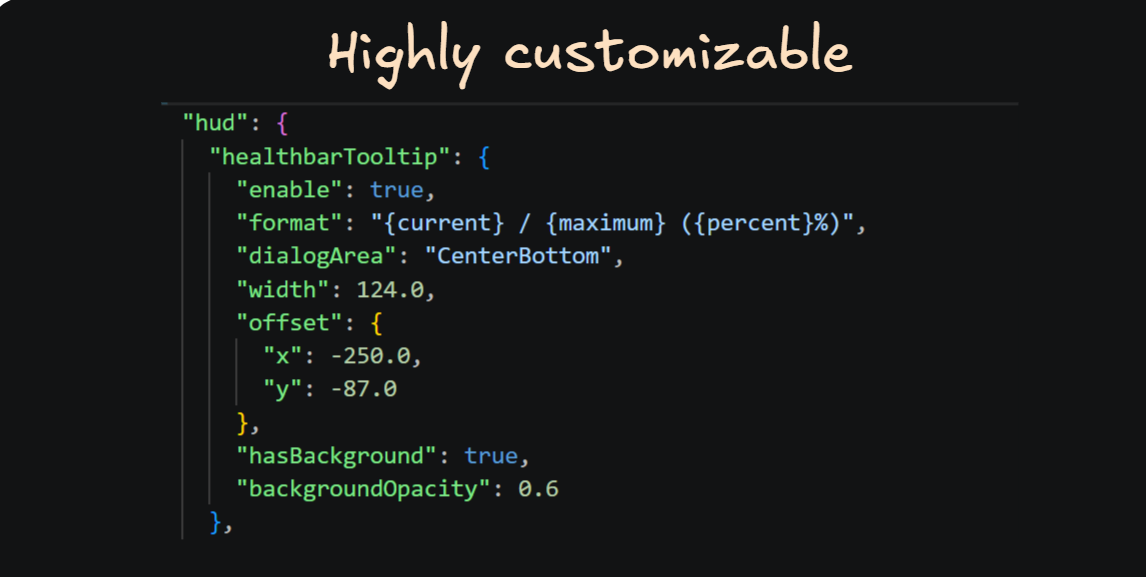
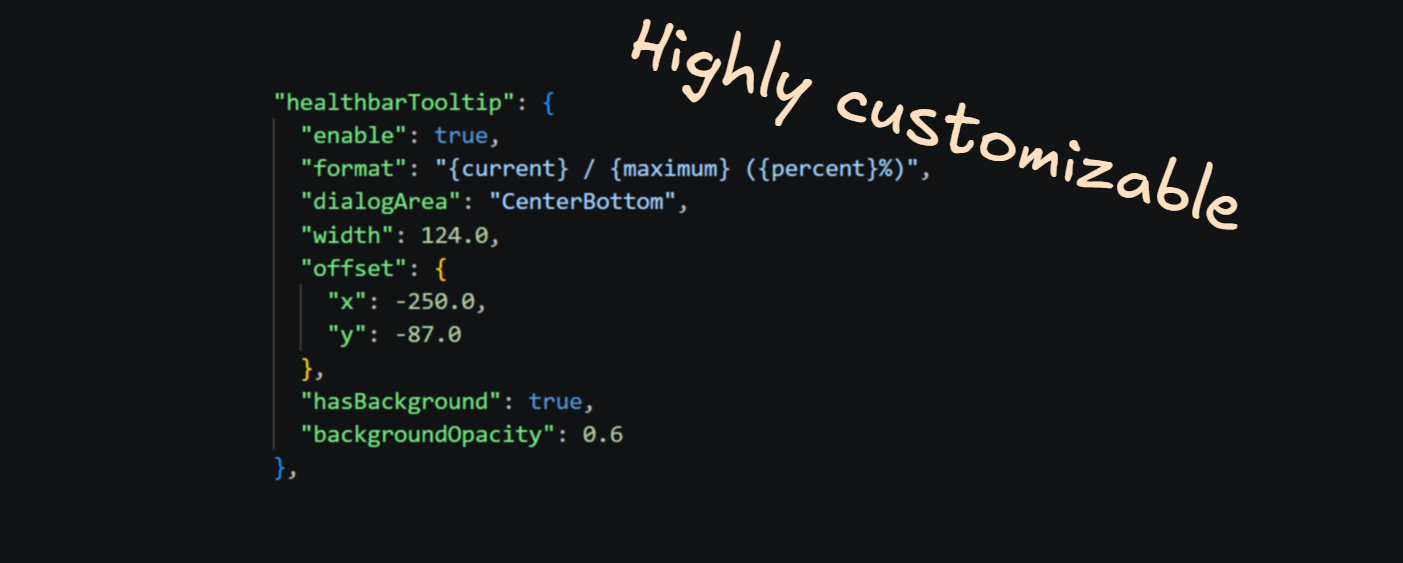
Format docs images

Changed region(s): [[0.1527, 0.0302, 0.8857, 0.8757], [0.1832, 0.9059, 0.2138, 0.9361]]

diff --git a/docs/src/carousel.css b/docs/src/carousel.css
@@ -1,0 +1,152 @@
+/* Carousel & Image Showcase – shared styles */
+
+.carousel {
+  position: relative;
+  width: 100%;
+  margin: 1.5em 0;
+}
+.carousel input[type="radio"] {
+  display: none;
+}
+.carousel-body {
+  display: grid;
+  grid-template-columns: 2.5em 1fr 2.5em;
+  border: 1px solid rgba(128, 128, 128, 0.3);
+  border-radius: 8px;
+  overflow: hidden;
+  background: rgba(128, 128, 128, 0.05);
+}
+.carousel-inner {
+  grid-column: 2;
+  grid-row: 1;
+  display: grid;
+}
+.carousel-slide {
+  grid-row: 1;
+  grid-column: 1;
+  display: flex;
+  justify-content: center;
+  align-items: center;
+  opacity: 0;
+  visibility: hidden;
+  padding: 1em;
+  min-height: 0;
+}
+.carousel-slide img {
+  max-width: 100%;
+  height: auto;
+  display: block;
+}
+
+/* Arrow areas */
+.carousel-arrow-area {
+  grid-row: 1;
+  display: flex;
+  align-items: center;
+  justify-content: center;
+  position: relative;
+  background: rgba(128, 128, 128, 0.08);
+  transition: background 0.2s;
+}
+.carousel-arrow-area:hover {
+  background: rgba(128, 128, 128, 0.2);
+}
+.carousel-arrow-area.carousel-prev-area { grid-column: 1; }
+.carousel-arrow-area.carousel-next-area { grid-column: 3; }
+.carousel-arrow-area .arrow-symbol {
+  color: rgba(128, 128, 128, 0.5);
+  font-size: 1.5em;
+  line-height: 1;
+  user-select: none;
+  pointer-events: none;
+}
+.carousel-arrow-area:hover .arrow-symbol {
+  color: rgba(128, 128, 128, 0.9);
+}
+
+/* Invisible label overlays – only the correct one receives clicks */
+.carousel-arrow {
+  position: absolute;
+  inset: 0;
+  cursor: pointer;
+  z-index: 1;
+  opacity: 0;
+  pointer-events: none;
+}
+
+/* Dot indicators */
+.carousel-dots {
+  text-align: center;
+  padding: 0.6em 0 0.4em;
+}
+.carousel-dot {
+  display: inline-block;
+  width: 12px;
+  height: 12px;
+  border-radius: 50%;
+  background: rgba(128, 128, 128, 0.35);
+  margin: 0 5px;
+  cursor: pointer;
+  transition: background 0.2s;
+}
+.carousel-dot:hover {
+  background: rgba(128, 128, 128, 0.6);
+}
+
+/* ── Overview page carousel (carousel-s1 … carousel-s4) ── */
+
+#carousel-s1:checked ~ .carousel-body .carousel-slide-1,
+#carousel-s2:checked ~ .carousel-body .carousel-slide-2,
+#carousel-s3:checked ~ .carousel-body .carousel-slide-3,
+#carousel-s4:checked ~ .carousel-body .carousel-slide-4 {
+  opacity: 1;
+  visibility: visible;
+}
+#carousel-s1:checked ~ .carousel-body .ctrl-1,
+#carousel-s2:checked ~ .carousel-body .ctrl-2,
+#carousel-s3:checked ~ .carousel-body .ctrl-3,
+#carousel-s4:checked ~ .carousel-body .ctrl-4 {
+  pointer-events: auto;
+  z-index: 3;
+}
+#carousel-s1:checked ~ .carousel-dots label[for="carousel-s1"],
+#carousel-s2:checked ~ .carousel-dots label[for="carousel-s2"],
+#carousel-s3:checked ~ .carousel-dots label[for="carousel-s3"],
+#carousel-s4:checked ~ .carousel-dots label[for="carousel-s4"] {
+  background: rgba(128, 128, 128, 0.8);
+}
+
+/* ── Features page carousel (tooltips-s1 … tooltips-s2) ── */
+
+#tooltips-s1:checked ~ .carousel-body .carousel-slide-1,
+#tooltips-s2:checked ~ .carousel-body .carousel-slide-2 {
+  opacity: 1;
+  visibility: visible;
+}
+#tooltips-s1:checked ~ .carousel-body .ctrl-1,
+#tooltips-s2:checked ~ .carousel-body .ctrl-2 {
+  pointer-events: auto;
+  z-index: 3;
+}
+#tooltips-s1:checked ~ .carousel-dots label[for="tooltips-s1"],
+#tooltips-s2:checked ~ .carousel-dots label[for="tooltips-s2"] {
+  background: rgba(128, 128, 128, 0.8);
+}
+
+/* ── Single-image showcase container ── */
+
+.image-showcase {
+  display: flex;
+  justify-content: center;
+  align-items: center;
+  padding: 1em;
+  border: 1px solid rgba(128, 128, 128, 0.3);
+  border-radius: 8px;
+  background: rgba(128, 128, 128, 0.05);
+  margin: 1.5em 0;
+}
+.image-showcase img {
+  max-width: 100%;
+  height: auto;
+  display: block;
+}

diff --git a/docs/src/02.features.md b/docs/src/02.features.md
@@ -12,10 +12,36 @@ Customize your HUD by enabling additional elements provided by UI Tweaks:
 - **Temporal stability**: Displays the player's temporal stability, as well as temporal stability at player's current position.
 
 
-|                                                                |
-|----------------------------------------------------------------|
-| ![tooltip-labels-showcase](assets/tooltip-labels-showcase.png) |
-| ![tooltip-labels-config](assets/tooltip-labels-config.png)     |
+<div class="carousel">
+  <input type="radio" name="tooltips" id="tooltips-s1" checked>
+  <input type="radio" name="tooltips" id="tooltips-s2">
+
+  <div class="carousel-body">
+    <div class="carousel-arrow-area carousel-prev-area">
+      <span class="arrow-symbol">&#10094;</span>
+      <label class="carousel-arrow ctrl-1" for="tooltips-s2"></label>
+      <label class="carousel-arrow ctrl-2" for="tooltips-s1"></label>
+    </div>
+    <div class="carousel-inner">
+      <div class="carousel-slide carousel-slide-1">
+        <img src="assets/tooltip-labels-showcase.png" alt="Status Tooltips Showcase">
+      </div>
+      <div class="carousel-slide carousel-slide-2">
+        <img src="assets/tooltip-labels-config.png" alt="Status Tooltips Configuration">
+      </div>
+    </div>
+    <div class="carousel-arrow-area carousel-next-area">
+      <span class="arrow-symbol">&#10095;</span>
+      <label class="carousel-arrow ctrl-1" for="tooltips-s2"></label>
+      <label class="carousel-arrow ctrl-2" for="tooltips-s1"></label>
+    </div>
+  </div>
+
+  <div class="carousel-dots">
+    <label class="carousel-dot" for="tooltips-s1"></label>
+    <label class="carousel-dot" for="tooltips-s2"></label>
+  </div>
+</div>
 
 ## Quick Search
 
@@ -27,9 +53,9 @@ This search behaves differently from the vanilla handbook search. We hope you fi
 
 Also check out the [Calculator](#calculator) feature below, which allows Quick Search to double as a simple calculator.
 
-|                                                                |
-|----------------------------------------------------------------|
-| ![quick-search-showcase](assets/quick-search-showcase.png)     |
+<div class="image-showcase">
+  <img src="assets/quick-search-showcase.png" alt="Quick Search Showcase">
+</div>
 
 **We think Quick Search may benefit from the following features in the future:**
 
@@ -44,9 +70,9 @@ Also check out the [Calculator](#calculator) feature below, which allows Quick S
 
 [QuickSearch](#quick-search) also allows calculating mathematical expressions right in the search box!
 
-|                                                                |
-|----------------------------------------------------------------|
-| ![calculator-showcase](assets/calculator-showcase.png)     |
+<div class="image-showcase">
+  <img src="assets/calculator-showcase.png" alt="Calculator Showcase">
+</div>
 
 Supported operations:
 - Addition: `+`

diff --git a/docs/src/01.overview.md b/docs/src/01.overview.md
@@ -2,7 +2,50 @@
 
 UI Tweaks is a mod for Vintage Story that enhances the user interface by adding various quality-of-life features and visual improvements. The mod aims to provide a more intuitive and customizable UI experience for players, making it easier to navigate and interact with the game.
 
-> 🚧 TODO: Imagine there is a carousel of screenshots here showcasing the different features and improvements that UI Tweaks offers!
+<div class="carousel">
+  <input type="radio" name="carousel" id="carousel-s1" checked>
+  <input type="radio" name="carousel" id="carousel-s2">
+  <input type="radio" name="carousel" id="carousel-s3">
+  <input type="radio" name="carousel" id="carousel-s4">
+
+  <div class="carousel-body">
+    <div class="carousel-arrow-area carousel-prev-area">
+      <span class="arrow-symbol">&#10094;</span>
+      <label class="carousel-arrow ctrl-1" for="carousel-s4"></label>
+      <label class="carousel-arrow ctrl-2" for="carousel-s1"></label>
+      <label class="carousel-arrow ctrl-3" for="carousel-s2"></label>
+      <label class="carousel-arrow ctrl-4" for="carousel-s3"></label>
+    </div>
+    <div class="carousel-inner">
+      <div class="carousel-slide carousel-slide-1">
+        <img src="assets/tooltip-labels-showcase.png" alt="Status Tooltips Showcase">
+      </div>
+      <div class="carousel-slide carousel-slide-2">
+        <img src="assets/tooltip-labels-config.png" alt="Status Tooltips Configuration">
+      </div>
+      <div class="carousel-slide carousel-slide-3">
+        <img src="assets/quick-search-showcase.png" alt="Quick Search Showcase">
+      </div>
+      <div class="carousel-slide carousel-slide-4">
+        <img src="assets/calculator-showcase.png" alt="Calculator Showcase">
+      </div>
+    </div>
+    <div class="carousel-arrow-area carousel-next-area">
+      <span class="arrow-symbol">&#10095;</span>
+      <label class="carousel-arrow ctrl-1" for="carousel-s2"></label>
+      <label class="carousel-arrow ctrl-2" for="carousel-s3"></label>
+      <label class="carousel-arrow ctrl-3" for="carousel-s4"></label>
+      <label class="carousel-arrow ctrl-4" for="carousel-s1"></label>
+    </div>
+  </div>
+
+  <div class="carousel-dots">
+    <label class="carousel-dot" for="carousel-s1"></label>
+    <label class="carousel-dot" for="carousel-s2"></label>
+    <label class="carousel-dot" for="carousel-s3"></label>
+    <label class="carousel-dot" for="carousel-s4"></label>
+  </div>
+</div>
 
 You can install UI Tweaks from the official mod repository or directly from GitHub. Check out the [Installation](04.installation.md) section for detailed instructions on how to get started.
 
